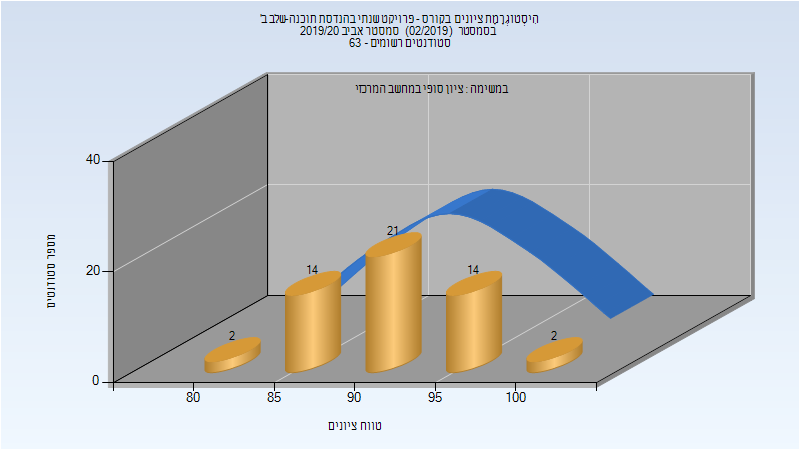
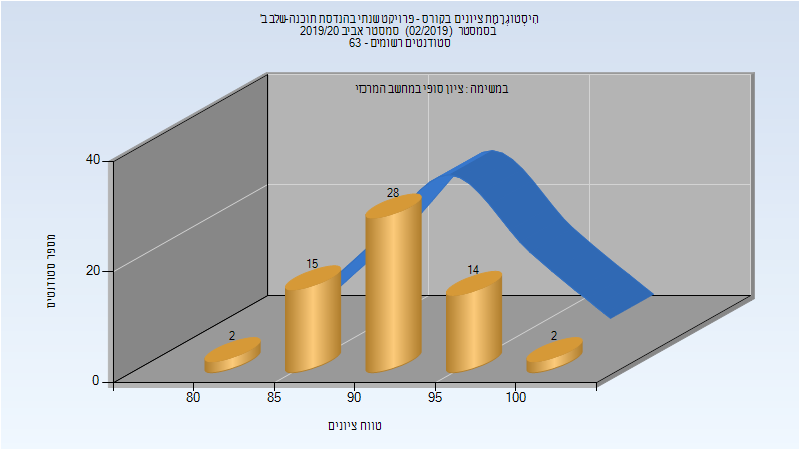
Deploy michael-maltsev/technion-histograms to github.com/michael-maltsev/technion-histograms.git:gh-pages

diff --git a/234312/index.html b/234312/index.html
@@ -36,12 +36,12 @@
 </thead>
 <tbody>
 <tr>
-<td>53</td>
-<td>53/0</td>
+<td>61</td>
+<td>61/0</td>
 <td>100</td>
 <td>81</td>
 <td>100</td>
-<td>91.906</td>
+<td>91.984</td>
 <td>93</td>
 </tr>
 </tbody>

diff --git a/234312/README.md b/234312/README.md
@@ -8,5 +8,5 @@
 
 | סטודנטים | עברו/נכשלו | אחוז עוברים | ציון מינימלי | ציון מקסימלי | ממוצע | חציון |
 | ---- | ---- | ---- | ---- | ---- | ---- | ---- |
-| 53 | 53/0 | 100 | 81 | 100 | 91.906 | 93 |
+| 61 | 61/0 | 100 | 81 | 100 | 91.984 | 93 |
 
